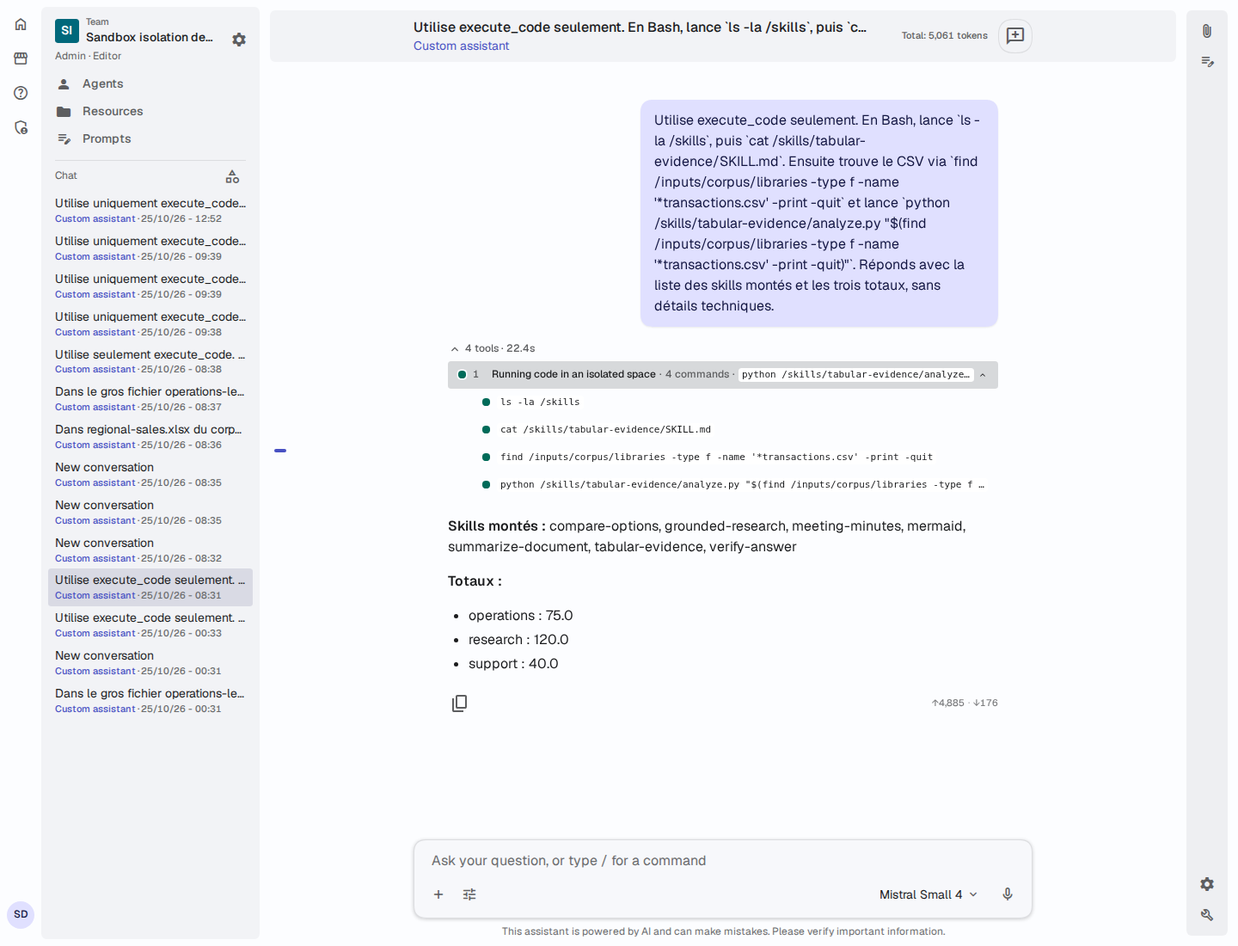
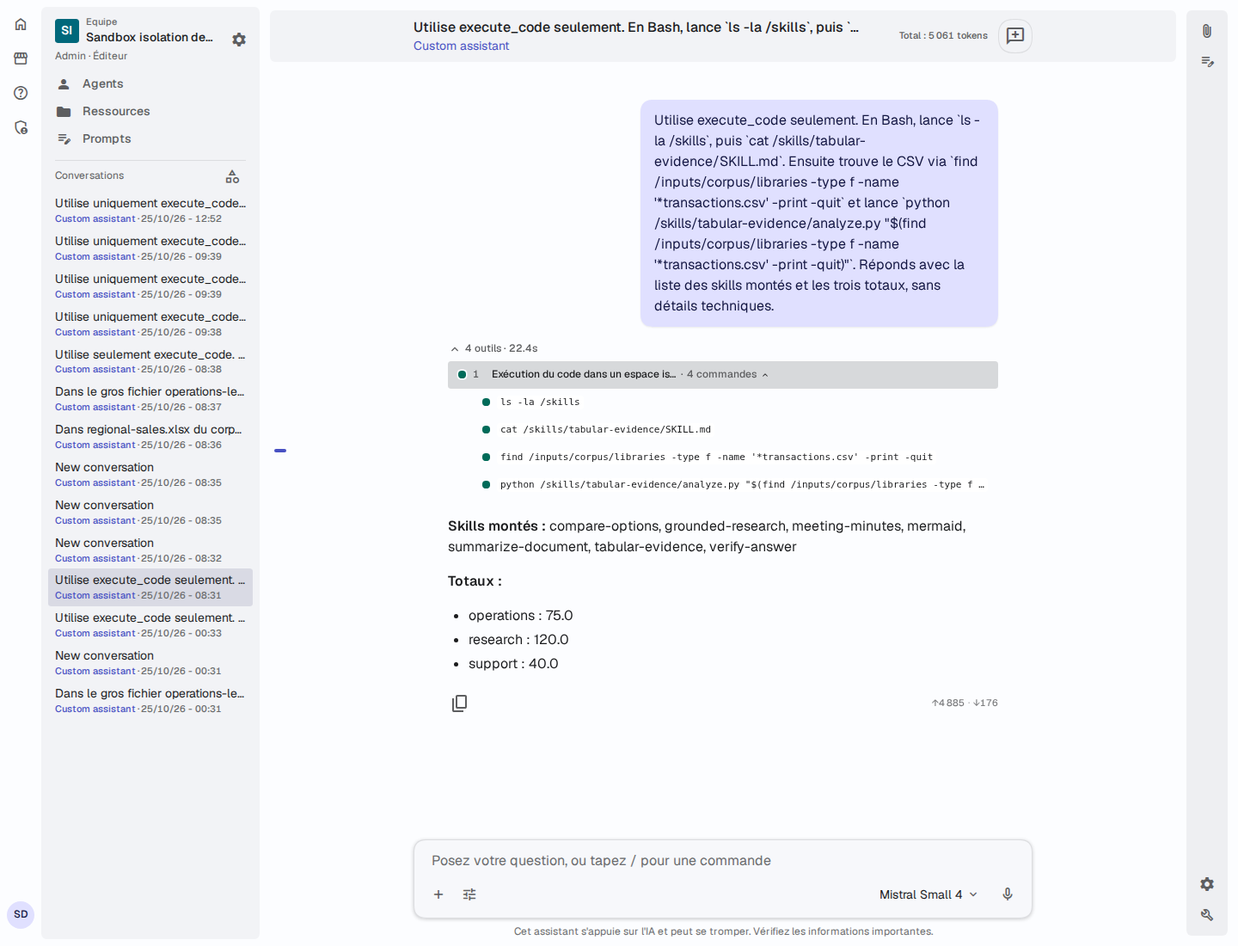
impr(#3226): keep code out of sandbox group heading

diff --git a/docs/agent-sandbox-stack.html b/docs/agent-sandbox-stack.html
@@ -173,7 +173,7 @@ document.addEventListener('DOMContentLoaded', function () {
 <section class="slide divider" data-part="3"><p class="kicker">Partie 3</p><div class="body"><div class="n">3</div><h1>Chaque couche a une responsabilité mesurable</h1></div><div class="contents"><span><b>1</b>Contrats et capability</span><span><b>2</b>Broker et isolation</span><span><b>3</b>Admin et déploiement</span></div></section>
 <section class="slide" data-part="3"><p class="kicker">Partie 3</p><h2>Le SDK fixe un contrat indépendant du backend</h2><p class="lede">Un script Bash, une identité privée, un résultat borné et un port abstrait.</p><div class="body"><div class="grid cols3"><div class="card add"><span class="tag">+</span><b class="name">SandboxRequest</b><small><span class="chip c1">fred-sdk</span> <code>fred_sdk/contracts/sandbox.py:16</code></small><p>script Bash limité à 16 384 caractères.</p></div><div class="card add"><span class="tag">+</span><b class="name">SandboxSessionIdentity</b><small><span class="chip c1">fred-sdk</span> <code>fred_sdk/contracts/sandbox.py:23</code></small><p>user, team et conversation restent hors du schéma LLM.</p></div><div class="card add"><span class="tag">+</span><b class="name">SandboxResult</b><small><span class="chip c1">fred-sdk</span> <code>fred_sdk/contracts/sandbox.py:32</code></small><p>stdout, stderr, timeout et sortie tronquée.</p></div><div class="card add"><span class="tag">+</span><b class="name">SandboxError</b><small><span class="chip c1">fred-sdk</span> <code>fred_sdk/contracts/sandbox.py:43</code></small><p>Codes bornés, pas de traceback brut vers le modèle.</p></div><div class="card add"><span class="tag">+</span><b class="name">SandboxExecutionPort</b><small><span class="chip c1">fred-sdk</span> <code>fred_sdk/contracts/sandbox.py:61</code></small><p>execute(request, session) rend le backend interchangeable.</p></div><div class="card add"><span class="tag">+</span><b class="name">Tests du contrat</b><small><span class="chip c1">fred-sdk</span> <code>tests/test_sandbox_contract.py</code></small><p>Validation stricte des modèles et du port.</p></div></div></div></section>
 <section class="slide" data-part="3"><p class="kicker">Partie 3</p><h2>La capability expose un outil administré</h2><p class="lede">Le modèle ne choisit ni image, ni runtime, ni ressource.</p><div class="body"><div class="grid cols3"><div class="card add"><span class="tag">+</span><b class="name">CodeSandboxCapability</b><small><span class="chip c2">capability</span> <code>fred_capability_code_sandbox/capability.py:32</code></small><p>ID code_sandbox, TeamScopePolicy.ADMIN_GATED.</p></div><div class="card add"><span class="tag">+</span><b class="name">execute_code</b><small><span class="chip c2">capability</span> <code>fred_capability_code_sandbox/capability.py:46</code></small><p>Argument code uniquement; démarre le workload au premier appel.</p></div><div class="card add"><span class="tag">+</span><b class="name">Session privée</b><small><span class="chip c2">capability</span> <code>fred_capability_code_sandbox/capability.py:55</code></small><p>Dérivée de ctx.identity, jamais demandée au modèle.</p></div><div class="card add"><span class="tag">+</span><b class="name">Résultat outil</b><small><span class="chip c2">capability</span> <code>fred_capability_code_sandbox/capability.py:72</code></small><p>JSON explicite; sortie considérée comme donnée non fiable.</p></div><div class="card add"><span class="tag">+</span><b class="name">Vue automatique /inputs</b><small><span class="chip c2">capability</span> <code>fred_capability_code_sandbox/capability.py</code></small><p>La vue est préparée avant le premier execute_code; /inputs/corpus et /inputs/attachments sont listés automatiquement.</p></div><div class="card add"><span class="tag">+</span><b class="name">Tests capability</b><small><span class="chip c2">capability</span> <code>tests/test_capability.py</code></small><p>Fake port, schéma et préparation de la vue autorisée.</p></div></div></div></section>
-<section class="slide" data-part="3"><p class="kicker">Partie 3 - recherche par code</p><h2>Filtrer dans la sandbox avant de répondre</h2><p class="lede">La consigne demande à l'agent d'écrire du Bash dans execute_code et d'appeler Python depuis le shell et de ne renvoyer que des extraits ciblés.</p><div class="body"><div class="grid cols3"><div class="card add"><h3>Découvrir</h3><p>Un glob ou find restreint les noms et les répertoires. Éviter l'inventaire complet de /inputs.</p></div><div class="card add"><h3>Texte</h3><p>La consigne propose grep -F pour les termes littéraux et Python pour cinq extraits de 240 caractères au plus.</p></div><div class="card add"><h3>Variantes</h3><p>Échapper les termes avant la regex, puis accepter espaces, tirets et underscores; ignorer la casse.</p></div><div class="card sec"><h3>Documents</h3><p>Inspecter pages, paragraphes ou slides un à un. N'imprimer que les extraits trouvés et leur emplacement.</p></div><div class="card sec"><h3>Tables</h3><p>Filtrer lignes et colonnes CSV; ouvrir Excel en lecture seule, puis agréger les seules lignes utiles.</p></div><div class="card same"><h3>Présentation</h3><p>La trace regroupe les appels de code consécutifs. Son en-tête garde le nombre de commandes et celle en cours. La consigne demande un court commentaire # avant chaque exécution, même pour une seule commande Bash. La trace montre ce commentaire comme intention, puis la commande dans une zone monospace distincte. Les retours à la ligne du code sont remplacés par des espaces dans un aperçu sur une ligne, tronqué avec ... si nécessaire; le heredoc et son contenu y restent visibles jusqu'à la troncature. Le détail conserve le script Bash et le résultat complets. Un code de sortie non nul marque la commande en échec. Un autre outil coupe le groupe.</p></div></div></div></section>
+<section class="slide" data-part="3"><p class="kicker">Partie 3 - recherche par code</p><h2>Filtrer dans la sandbox avant de répondre</h2><p class="lede">La consigne demande à l'agent d'écrire du Bash dans execute_code et d'appeler Python depuis le shell et de ne renvoyer que des extraits ciblés.</p><div class="body"><div class="grid cols3"><div class="card add"><h3>Découvrir</h3><p>Un glob ou find restreint les noms et les répertoires. Éviter l'inventaire complet de /inputs.</p></div><div class="card add"><h3>Texte</h3><p>La consigne propose grep -F pour les termes littéraux et Python pour cinq extraits de 240 caractères au plus.</p></div><div class="card add"><h3>Variantes</h3><p>Échapper les termes avant la regex, puis accepter espaces, tirets et underscores; ignorer la casse.</p></div><div class="card sec"><h3>Documents</h3><p>Inspecter pages, paragraphes ou slides un à un. N'imprimer que les extraits trouvés et leur emplacement.</p></div><div class="card sec"><h3>Tables</h3><p>Filtrer lignes et colonnes CSV; ouvrir Excel en lecture seule, puis agréger les seules lignes utiles.</p></div><div class="card same"><h3>Présentation</h3><p>La trace regroupe les appels de code consécutifs. Son en-tête garde le nombre de commandes et seulement le commentaire d'intention en cours, sans code. La consigne demande un court commentaire # avant chaque exécution, même pour une seule commande Bash. Une ligne dépliée montre ce commentaire puis la commande dans une zone monospace distincte. Les retours à la ligne du code sont remplacés par des espaces dans un aperçu sur une ligne, tronqué avec ... si nécessaire; le heredoc et son contenu y restent visibles jusqu'à la troncature. Le détail conserve le script Bash et le résultat complets. Un code de sortie non nul marque la commande en échec. Un autre outil coupe le groupe.</p></div></div></div></section>
 <section class="slide" data-part="3"><p class="kicker">Partie 3</p><h2>Le runtime crée un adaptateur HTTP privé</h2><p class="lede">Le runtime garde l’autorisation des outils et ajoute le broker comme service optionnel.</p><div class="body"><div class="grid cols3"><div class="card add"><span class="tag">+</span><b class="name">SandboxHttpAdapter</b><small><span class="chip c3">fred-runtime</span> <code>fred_runtime/sandbox_http.py:23</code></small><p>HTTPS + bearer; validation de réponse et erreurs bornées.</p></div><div class="card add"><span class="tag">+</span><b class="name">Configuration</b><small><span class="chip c3">fred-runtime</span> <code>fred_runtime/sandbox_http.py:59</code></small><p>URL et token viennent de l’environnement du pod.</p></div><div class="card add"><span class="tag">+</span><b class="name">Service binding</b><small><span class="chip c3">fred-runtime</span> <code>fred_runtime/app/agent_app.py:6740</code></small><p>Injecte le port lors de l’activation des capabilities.</p></div><div class="card add"><span class="tag">+</span><b class="name">Runtime context</b><small><span class="chip c3">fred-runtime</span> <code>fred_runtime/runtime_context.py</code></small><p>Transporte l’identité de conversation sans argument LLM.</p></div><div class="card add"><span class="tag">+</span><b class="name">Tests HTTP</b><small><span class="chip c3">fred-runtime</span> <code>tests/test_sandbox_http.py</code></small><p>Vérifient transport et erreurs.</p></div><div class="card same"><span class="tag">=</span><b class="name">Contrat gelé</b><small><span class="chip c3">fred-runtime</span> <code>docs/swift/design/RUNTIME-EXECUTION-CONTRACT.md</code></small><p>Le pod reste l’autorité des droits d’exécution Fred.</p></div></div></div></section>
 <section class="slide" data-part="3"><p class="kicker">Partie 3</p><h2>Le pod agents installe la capability</h2><p class="lede">L’entrée de découverte reste unique pour ReAct, Deep et Graph.</p><div class="body"><div class="grid cols3"><div class="card add"><span class="tag">+</span><b class="name">Dépendance</b><small><span class="chip c4">fred-agents</span> <code>pyproject.toml:25</code></small><p>Le package capability entre dans l’image agents.</p></div><div class="card add"><span class="tag">+</span><b class="name">Source editable</b><small><span class="chip c4">fred-agents</span> <code>pyproject.toml:73</code></small><p>Le workspace relie le package local.</p></div><div class="card add"><span class="tag">+</span><b class="name">Image</b><small><span class="chip c4">fred-agents</span> <code>dockerfiles/Dockerfile-prod</code></small><p>Le Dockerfile copie et installe la capability.</p></div><div class="card add"><span class="tag">+</span><b class="name">Boot invariant</b><small><span class="chip c4">fred-agents</span> <code>tests/test_capability_boot.py:126</code></small><p>Le test de découverte épingle code_sandbox.</p></div><div class="card add"><span class="tag">+</span><b class="name">Configuration runtime</b><small><span class="chip c4">fred-agents</span> <code>dockerfiles/Dockerfile-prod</code></small><p>Endpoint broker et bearer restent côté pod.</p></div></div></div></section>
 <section class="slide" data-part="3"><p class="kicker">Partie 3</p><h2>Le broker borne chaque lease et chaque exécution</h2><p class="lede">Son interface interne est preflight, prepare, execute, dispose.</p><div class="body"><div class="grid cols4"><div class="card add"><span class="tag">+</span><b class="name">API</b><small><span class="chip c5">sandbox-broker</span> <code>sandbox_broker/api.py:33</code></small><p>Bearer, tailles et admission.</p></div><div class="card add"><span class="tag">+</span><b class="name">Backend protocol</b><small><span class="chip c5">sandbox-broker</span> <code>sandbox_broker/backend.py:27</code></small><p>Une lease typée pour trois implémentations.</p></div><div class="card add"><span class="tag">+</span><b class="name">ConversationPool</b><small><span class="chip c5">sandbox-broker</span> <code>sandbox_broker/sessions.py:29</code></small><p>Sérialisation et idle expiry.</p></div><div class="card add"><span class="tag">+</span><b class="name">Process sweep</b><small><span class="chip c5">sandbox-broker</span> <code>sandbox_broker/process_cleanup.py:39</code></small><p>Détruit les descendants détachés avant réusage.</p></div><div class="card add"><span class="tag">+</span><b class="name">Kubernetes Job</b><small><span class="chip c5">sandbox-broker</span> <code>sandbox_broker/kubernetes_backend.py:23</code></small><p>RuntimeClass, deadline et TTL.</p></div><div class="card add"><span class="tag">+</span><b class="name">SIG Agent Sandbox</b><small><span class="chip c5">sandbox-broker</span> <code>sandbox_broker/agent_sandbox_backend.py:21</code></small><p>Claim, pool upstream et expiry.</p></div><div class="card add"><span class="tag">+</span><b class="name">Docker</b><small><span class="chip c5">sandbox-broker</span> <code>sandbox_broker/docker_backend.py:18</code></small><p>Runtime isolé et réseau none.</p></div><div class="card add"><span class="tag">+</span><b class="name">WarmPool</b><small><span class="chip c5">sandbox-broker</span> <code>sandbox_broker/pool.py:21</code></small><p>Capacité non assignée, optionnelle.</p></div></div></div></section>

diff --git a/apps/frontend/src/rework/components/shared/molecules/ThoughtTrace/ThoughtTrace.grouping.test.tsx b/apps/frontend/src/rework/components/shared/molecules/ThoughtTrace/ThoughtTrace.grouping.test.tsx
@@ -142,20 +142,21 @@ describe("ThoughtTrace code groups", () => {
     expect(opened).toEqual(["c2"]);
   });
 
-  it("keeps a group open and previews the current command as streaming calls arrive", () => {
-    const first = call("c1", "execute_code", "find /inputs -name '*.csv'\necho hidden", 1);
+  it("keeps a group open and previews the current intent as streaming calls arrive", () => {
+    const first = call("c1", "execute_code", "# Find the CSV\nfind /inputs -name '*.csv'\necho hidden", 1);
     renderTrace([first]);
     const group = groups()[0];
-    expect(group.textContent).toContain("find /inputs -name '*.csv'");
-    expect(group.textContent).toContain("find /inputs -name '*.csv' echo hidden");
+    expect(group.textContent).toContain("Find the CSV");
+    expect(group.textContent).not.toContain("find /inputs");
     act(() => group.click());
 
-    const second = call("c2", "execute_code", "grep -Fi phrase /inputs/table.csv", 3);
+    const second = call("c2", "execute_code", "# Search the table\ngrep -Fi phrase /inputs/table.csv", 3);
     renderTrace([first, result("c1", 2), second]);
     expect(groups()).toHaveLength(1);
     expect(groups()[0]).toBe(group);
     expect(group.getAttribute("aria-expanded")).toBe("true");
-    expect(group.textContent).toContain("grep -Fi phrase /inputs/table.csv");
+    expect(group.textContent).toContain("Search the table");
+    expect(group.textContent).not.toContain("grep -Fi phrase");
     const firstCommand = [...container.querySelectorAll("button")].find((button) =>
       button.textContent?.includes("find /inputs -name '*.csv' echo hidden"),
     );
@@ -163,16 +164,16 @@ describe("ThoughtTrace code groups", () => {
     expect(opened).toEqual(["c1"]);
   });
 
-  it("bounds a long command preview and keeps it on one line", () => {
+  it("bounds a long child command preview and keeps it on one line", () => {
     renderTrace([call("c1", "execute_code", `grep ${"x".repeat(400)}\necho later`, 1)]);
     const text = groups()[0].textContent ?? "";
-    expect(text).toContain("...");
+    expect(text).not.toContain("grep");
     expect(text).not.toContain("echo later");
-    expect(text).not.toContain("\n");
     act(() => groups()[0].click());
     const child = [...container.querySelectorAll("button")].find((button) => button.textContent?.startsWith("grep "));
     expect(child?.textContent).toContain("...");
     expect(child?.textContent).not.toContain("echo later");
+    expect(child?.textContent).not.toContain("\n");
   });
 
   it("flattens an unlabeled Python script into a single bounded preview", () => {
@@ -184,19 +185,18 @@ describe("ThoughtTrace code groups", () => {
         1,
       ),
     ]);
-    expect(groups()[0].textContent).toContain("python - <<'PY' from pypdf import PdfReader");
-    expect(groups()[0].textContent).toContain("for page in reader.pages: print(page) PY");
-    expect(groups()[0].textContent).not.toContain("\n");
-    expect(groups()[0].querySelector("code")?.textContent).toContain("for page in reader.pages: print(page) PY");
+    expect(groups()[0].textContent).not.toContain("python - <<'PY'");
     act(() => groups()[0].click());
     const child = [...container.querySelectorAll("button")].find((button) =>
       button.textContent?.includes("python - <<'PY' from pypdf import PdfReader"),
     );
     expect(child?.textContent).toContain("print(page) PY");
+    expect(child?.textContent).not.toContain("\n");
+    expect(child?.querySelector("code")?.textContent).toContain("for page in reader.pages: print(page) PY");
     expect(child?.getAttribute("aria-label")).toContain("python - <<'PY' from pypdf import PdfReader");
   });
 
-  it("shows a leading intent comment and the Python launcher on one line", () => {
+  it("shows intent only in the heading and the Python launcher in the row", () => {
     renderTrace([
       call(
         "c1",
@@ -205,21 +205,24 @@ describe("ThoughtTrace code groups", () => {
         1,
       ),
     ]);
-    expect(groups()[0].textContent).toContain("Search HELIOS-4821 in the attached PDF - python - <<'PY'");
-    expect(groups()[0].textContent).toContain('if "HELIOS-4821" in text: print(text) PY');
-    expect(groups()[0].textContent).not.toContain("\n");
+    expect(groups()[0].textContent).toContain("Search HELIOS-4821 in the attached PDF");
+    expect(groups()[0].textContent).not.toContain("python - <<'PY'");
+    act(() => groups()[0].click());
+    expect(container.querySelector("button code")?.textContent).toContain('if "HELIOS-4821" in text: print(text) PY');
   });
 
   it("accepts a leading comment without a space after the hash", () => {
     renderTrace([call("c1", "execute_code", "#Search report\npython - <<'PY'\nprint(42)\nPY", 1)]);
-    expect(groups()[0].textContent).toContain("Search report - python - <<'PY' print(42) PY");
+    expect(groups()[0].textContent).toContain("Search report");
+    expect(groups()[0].textContent).not.toContain("python - <<'PY'");
   });
 
-  it("separates Bash intent from the formatted command in the heading and row", () => {
+  it("keeps Bash intent in the heading and formats the command in the row", () => {
     renderTrace([call("c1", "execute_code", "# Find the requested CSV\nfind /inputs -name '*.csv'", 1)]);
     const heading = groups()[0];
-    expect(heading.textContent).toContain("Find the requested CSV - find /inputs -name '*.csv'");
-    expect(heading.querySelector("code")?.textContent).toBe("find /inputs -name '*.csv'");
+    expect(heading.textContent).toContain("Find the requested CSV");
+    expect(heading.textContent).not.toContain("find /inputs");
+    expect(heading.getAttribute("aria-label")).not.toContain("find /inputs");
     act(() => heading.click());
     const row = [...container.querySelectorAll("button")].find(
       (button) => button !== heading && button.textContent?.includes("Find the requested CSV"),
@@ -234,7 +237,8 @@ describe("ThoughtTrace code groups", () => {
       call("c2", "execute_code", "# Calculate the Lyon margin\npython - <<'PY'\nprint(41.22)\nPY", 3),
     ]);
     expect(groups()[0].textContent).toContain("2 commands");
-    expect(groups()[0].textContent).toContain("Calculate the Lyon margin - python - <<'PY' print(41.22) PY");
+    expect(groups()[0].textContent).toContain("Calculate the Lyon margin");
+    expect(groups()[0].textContent).not.toContain("python - <<'PY'");
     expect(groups()[0].textContent).not.toContain("Locate the workbook");
     act(() => groups()[0].click());
     expect(container.textContent).toContain("Locate the workbook");
@@ -243,27 +247,37 @@ describe("ThoughtTrace code groups", () => {
 
   it("shows another launcher without classifying its heredoc", () => {
     renderTrace([call("c1", "execute_code", "cat <<EOF\nhello\nEOF", 1)]);
-    expect(groups()[0].textContent).toContain("cat <<EOF hello EOF");
+    expect(groups()[0].textContent).not.toContain("cat <<EOF");
+    act(() => groups()[0].click());
+    expect(container.querySelector("button code")?.textContent).toContain("cat <<EOF hello EOF");
   });
 
-  it("keeps the launcher visible after a long intent comment", () => {
+  it("keeps a long intent in the heading and the launcher in the row", () => {
     renderTrace([call("c1", "execute_code", `# ${"Search the corpus ".repeat(8)}\npython - <<'PY'\nprint(42)\nPY`, 1)]);
     expect(groups()[0].textContent).toContain("Search the corpus");
-    expect(groups()[0].textContent).toContain("python - <<'PY' print(42) PY");
+    expect(groups()[0].textContent).not.toContain("python - <<'PY'");
+    act(() => groups()[0].click());
+    expect(container.querySelector("button code")?.textContent).toContain("python - <<'PY' print(42) PY");
   });
 
   it("keeps additional comments in the flattened source preview", () => {
     renderTrace([
       call("c1", "execute_code", "# Search the corpus\n# Keep output short\npython - <<'PY'\nprint(42)\nPY", 1),
     ]);
-    expect(groups()[0].textContent).toContain("Search the corpus - # Keep output short python - <<'PY' print(42) PY");
+    expect(groups()[0].textContent).toContain("Search the corpus");
+    expect(groups()[0].textContent).not.toContain("Keep output short");
+    act(() => groups()[0].click());
+    expect(container.querySelector("button code")?.textContent).toContain(
+      "# Keep output short python - <<'PY' print(42) PY",
+    );
   });
 
   it("recognizes an intent comment after a shell shebang", () => {
     renderTrace([
       call("c1", "execute_code", "#!/bin/bash\n# Search the mounted corpus\ngrep -Fi term /inputs/corpus/file", 1),
     ]);
-    expect(groups()[0].textContent).toContain("Search the mounted corpus - grep -Fi term /inputs/corpus/file");
+    expect(groups()[0].textContent).toContain("Search the mounted corpus");
+    expect(groups()[0].textContent).not.toContain("grep -Fi term");
     expect(groups()[0].textContent).not.toContain("#!/bin/bash");
   });
 
@@ -289,8 +303,8 @@ describe("ThoughtTrace code groups", () => {
     ]);
     expect(groups()).toHaveLength(2);
     expect(groups().map((group) => group.textContent)).toEqual([
-      expect.stringContaining("echo first"),
-      expect.stringContaining("echo second"),
+      expect.not.stringContaining("echo first"),
+      expect.not.stringContaining("echo second"),
     ]);
   });
 

diff --git a/apps/frontend/src/rework/components/shared/molecules/ThoughtTrace/ToolTraceGroup/ToolTraceGroup.tsx b/apps/frontend/src/rework/components/shared/molecules/ThoughtTrace/ToolTraceGroup/ToolTraceGroup.tsx
@@ -62,7 +62,7 @@ export function ToolTraceGroup({
         ? "error"
         : "ok";
   const preview = current ? group.rule.preview(current.entry) : "";
-  const spokenPreview = previewText(preview);
+  const headingPreview = typeof preview === "string" ? preview : preview.label;
   const spokenStatus =
     status === "pending"
       ? t("rework.chatTrace.toolStatus.running")
@@ -81,7 +81,7 @@ export function ToolTraceGroup({
         type="button"
         className={styles.heading}
         aria-expanded={expanded}
-        aria-label={`${group.index}. ${t(group.rule.titleKey)}. ${t(group.rule.countKey, { count: group.count })}. ${spokenStatus}${spokenPreview ? `. ${spokenPreview}` : ""}`}
+        aria-label={`${group.index}. ${t(group.rule.titleKey)}. ${t(group.rule.countKey, { count: group.count })}. ${spokenStatus}${headingPreview ? `. ${headingPreview}` : ""}`}
         onClick={() => setExpanded((value) => !value)}
       >
         <span className={styles.marker} aria-hidden="true">
@@ -90,7 +90,7 @@ export function ToolTraceGroup({
         </span>
         <span className={styles.title}>{t(group.rule.titleKey)}</span>
         <span className={styles.count}>{t(group.rule.countKey, { count: group.count })}</span>
-        {spokenPreview && <span className={styles.preview}>{previewContent(preview)}</span>}
+        {headingPreview && <span className={styles.preview}>{headingPreview}</span>}
         <Icon category="outlined" type={expanded ? "expand_less" : "expand_more"} />
       </button>
       {expanded && (

diff --git a/apps/frontend/src/rework/components/shared/molecules/ThoughtTrace/ToolTraceGroup/ToolTraceGroup.module.css b/apps/frontend/src/rework/components/shared/molecules/ThoughtTrace/ToolTraceGroup/ToolTraceGroup.module.css
@@ -105,18 +105,15 @@
 }
 
 .preview {
-  display: flex;
   flex: 1;
-  align-items: center;
-  container: trace-preview / inline-size;
   min-width: 0;
   overflow: hidden;
   color: var(--on-surface-retreat);
+  text-overflow: ellipsis;
   white-space: nowrap;
 }
 
 .preview::before {
-  flex-shrink: 0;
   margin-right: var(--spacing-2xs);
   content: "·";
 }
@@ -147,13 +144,6 @@
   font: 0.6875rem / 1.45 var(--font-family-mono);
   text-overflow: ellipsis;
   white-space: nowrap;
-}
-
-@container trace-preview (max-width: 6.5rem) {
-  .previewLabel,
-  .previewSeparator {
-    display: none;
-  }
 }
 
 .children {

diff --git a/docs/swift/ops/agent-sandbox-demo/README.md b/docs/swift/ops/agent-sandbox-demo/README.md
@@ -1,13 +1,13 @@
 # Agent sandbox: k3d browser evidence
 
-These captures show real Fred conversations on `k3d-fred-secondary` on 24-25 October 2026. The test agent had only `code_sandbox` enabled. The guest used gVisor, SIG Agent Sandbox with a zero-replica WarmPool, and read-only rclone CSI mounts. The corpus and attachment files are synthetic. The retained chat captures were refreshed on 25 October with the Bash-only tool contract and the new trace styling. The tool now asks for a short intent comment before every execution. When supplied, that comment appears in ordinary text beside the submitted command in a monospace code surface. Multiline code, including heredocs, is flattened onto one visually truncated line. Each detail capture shows the complete Bash script and result. A nonzero exit code marks a command as failed in the trace.
+These captures show real Fred conversations on `k3d-fred-secondary` on 24-25 October 2026. The test agent had only `code_sandbox` enabled. The guest used gVisor, SIG Agent Sandbox with a zero-replica WarmPool, and read-only rclone CSI mounts. The corpus and attachment files are synthetic. The retained captures were refreshed on 25 October in the French UI with the Bash-only tool contract and the new trace styling; the group count reads `commande` or `commandes`. The tool now asks for a short intent comment before every execution. When supplied, that comment appears alone beside the command count in the group heading. The expanded row shows the comment in ordinary text and the submitted command in a monospace code surface. Multiline code, including heredocs, is flattened onto one visually truncated row. Each detail capture shows the complete Bash script and result. A nonzero exit code marks a command as failed in the trace.
 
 The cluster was deleted and rebuilt with the factory `make k3d-wipe`, `make k3d-up`, `make k3d-sandbox-smoke`, `make k3d-sandbox-files-demo` and `make k3d-app` targets. The smoke passed Bash, Python, gVisor, zero warm replicas and a read-only CSI file read. No Kubernetes resource name or persistent volume was edited by hand.
 
 | Scenario | Observed result | Chat | Tool detail |
 | --- | --- | --- | --- |
-| Bash command intent and styling | In a fresh Small 4 conversation, both Bash calls began with a short `#` intent comment even though the user prompt did not request comments. The trace separated each comment from its `find` command, and the guest counted seven mounted skills. The model chose Bash for the second count despite a request to use Python; the Python styling is shown in the next row. | [Chat and grouped calls](90-styled-chat.png) | [First Bash call](90-styled-detail-1.png), [second Bash call](90-styled-detail-2.png) |
-| Multiline intent preview | One conversation used `ls /skills`, then a Bash heredoc invoking Python. The grouped heading kept the two-command count and showed `Compter les skills montés` followed by a one-line preview of the submitted script. Python counted seven mounted skill descriptions; the detail retained the exact script and result. | [Chat and grouped calls](89-intent-chat.png) | [Script and result](89-intent-detail.png) |
+| Bash command intent and styling | In a fresh Small 4 conversation, both Bash calls began with a short `#` intent comment even though the user prompt did not request comments. The heading showed only the latest intent beside the command count; expanded rows separated each comment from its `find` command, and the guest counted seven mounted skills. The model chose Bash for the second count despite a request to use Python; the Python styling is shown in the next row. | [Chat and grouped calls](90-styled-chat.png) | [First Bash call](90-styled-detail-1.png), [second Bash call](90-styled-detail-2.png) |
+| Multiline intent preview | One conversation used `ls /skills`, then a Bash heredoc invoking Python. The grouped heading kept the two-command count and showed only `Compter les skills montés`; the expanded row showed the submitted script on one line. Python counted seven mounted skill descriptions; the detail retained the exact script and result. | [Chat and grouped calls](89-intent-chat.png) | [Script and result](89-intent-detail.png) |
 | Mounted platform skill and script | Bash listed the seven platform skills, read `tabular-evidence/SKILL.md`, and ran its mounted Python script against a CSV in the team corpus. All four commands succeeded after the concurrent view fix; totals were operations 75, research 120 and support 40. | [Chat and grouped calls](86-skill_clean-chat.png) | [Bash skill listing](86-skill_clean-ls-detail.png), [script and result](86-skill_clean-detail.png) |
 | Mounted skills, read-only | The agent read the platform `tabular-evidence` skill's Markdown in the same conversation, then a write under `/skills` failed with `EROFS` (errno 30). | [Chat](85-skill-readonly-chat.png) | [Denied write](85-skill-readonly-detail.png) |
 | Excel from team corpus | A Bash script invoked Python `openpyxl` on the original workbook in read-only mode, filtered Lyon and Paris, and returned weighted margins of 41.22% and 38.02%. Two exploratory calls failed visibly before the correct calculation. | [Chat](81-excel-chat.png) | [Command and result](81-excel-detail.png) |

diff --git a/openspec/changes/connect-agent-sandbox-filesystem/specs/agent-code-sandbox/spec.md b/openspec/changes/connect-agent-sandbox-filesystem/specs/agent-code-sandbox/spec.md
@@ -14,7 +14,7 @@ The system SHALL expose an admin-gated `execute_code(code)` tool whose sole mode
 ## ADDED Requirements
 
 ### Requirement: Grouped code execution trace
-The chat thought trace SHALL display a consecutive run of `execute_code` calls in one assistant turn as one expandable activity. Its single-line heading SHALL show the command count and a bounded preview of the running command, or the latest command when none is running. Expanding it SHALL show commands in chronological order with their status and links to full code and result details. The tool guidance SHALL ask the agent to start every execution, including a single Bash command, with a short shell comment describing intent. When present, the leading comment SHALL appear as an ordinary intent label, followed by the submitted code in a visually distinct monospace surface, flattened in source order onto one line; neither SHALL be treated as evidence of what the script actually did. If a heading is too narrow for both, it SHALL show the command while its accessible name and expanded row retain the intent. A long preview SHALL be truncated with `...`. It SHALL not parse or classify heredoc syntax. The tool SHALL still execute and retain the submitted code unchanged. Reasoning between consecutive code calls SHALL remain in sequence. A different tool, including `summarize_document`, SHALL end the current activity; a later code call SHALL start a new activity. The grouping mechanism SHALL allow another tool family to opt in through a presentation rule without changing stored trace events.
+The chat thought trace SHALL display a consecutive run of `execute_code` calls in one assistant turn as one expandable activity. Its single-line heading SHALL show the command count and only the bounded intent comment of the running command, or the latest command when none is running. It SHALL not show submitted code in the heading. Expanding it SHALL show commands in chronological order with their status and links to full code and result details. The tool guidance SHALL ask the agent to start every execution, including a single Bash command, with a short shell comment describing intent. When present, the leading comment SHALL appear in the heading and as an ordinary intent label in the expanded row, followed there by the submitted code in a visually distinct monospace surface, flattened in source order onto one line; neither SHALL be treated as evidence of what the script actually did. Without a leading comment, the heading SHALL show only the command count. A long preview SHALL be truncated with `...`. It SHALL not parse or classify heredoc syntax. The tool SHALL still execute and retain the submitted code unchanged. Reasoning between consecutive code calls SHALL remain in sequence. A different tool, including `summarize_document`, SHALL end the current activity; a later code call SHALL start a new activity. The grouping mechanism SHALL allow another tool family to opt in through a presentation rule without changing stored trace events.
 
 #### Scenario: Multiple code calls
 - **WHEN** an agent executes a Bash command and a Bash script invoking Python consecutively in one turn
@@ -22,15 +22,15 @@ The chat thought trace SHALL display a consecutive run of `execute_code` calls i
 
 #### Scenario: Intent comment on a multiline script
 - **WHEN** a script starts with `# Search HELIOS-4821 in the attached PDF` before a Python heredoc
-- **THEN** the group and command row show that bounded intent as a label followed by the launcher and Python body flattened onto one code-styled line, while the tool detail retains the exact comment, launcher, body and result
+- **THEN** the group heading shows that bounded intent without code, and the command row shows the intent followed by the launcher and Python body flattened onto one code-styled line, while the tool detail retains the exact comment, launcher, body and result
 
 #### Scenario: Intent comment on a Bash command
 - **WHEN** an agent uses `execute_code` for a single Bash command
-- **THEN** the tool guidance asks for a short leading intent comment and the trace styles the command separately from that comment when it is supplied
+- **THEN** the tool guidance asks for a short leading intent comment and the heading shows only that comment, and the expanded row styles the command separately from it
 
 #### Scenario: Unlabeled multiline script
 - **WHEN** a script starts with `python - <<'PY'` and has no leading intent comment
-- **THEN** the preview starts with `python - <<'PY'` and continues with its body and closing delimiter in source order on one line, up to the preview limit
+- **THEN** the group heading shows no code and the expanded row preview starts with `python - <<'PY'` and continues with its body and closing delimiter in source order on one line, up to the preview limit
 
 #### Scenario: Other tool between code calls
 - **WHEN** an agent executes code, calls `summarize_document`, and executes code again

diff --git a/openspec/changes/connect-agent-sandbox-filesystem/design.md b/openspec/changes/connect-agent-sandbox-filesystem/design.md
@@ -26,7 +26,7 @@ The approved skill directory is a shared source, mounted read-only by both the a
 
 7. **One Bash execution contract.** Keep `execute_code(code)` as the sole sandbox tool and run its argument with `/bin/bash -c` on every backend. The agent invokes Python explicitly from Bash, for example with `python - <<'PY'`, and keeps the full command in the tool detail. Reject unexpected request fields. Guidance still asks the agent to narrow filenames, bound matches and excerpts, and filter pages or rows before printing results. Broker output and resource limits still apply.
 
-8. **Grouped trace presentation.** Fold consecutive `execute_code` calls within one assistant turn into an expandable visual activity. Keep its single-line heading's command count and current command preview. Ask for a short intent comment before every execution, including a single Bash command. Flatten the submitted script in source order by replacing line breaks with spaces. Present a leading `#` comment as an ordinary intent label, followed by the command in a monospace code surface; keep both on one ellipsized line. When the heading is too narrow for both, show only the command there; its accessible name and expanded row retain the intent. This is presentation only: do not parse heredoc syntax or infer a representative Python body line. The detail drawer displays the full Bash script and result, including its comment and heredoc. Intervening reasoning stays in order; any different tool ends the activity, and a later code call starts another. The generic grouping rule accepts a plain preview or a label/value pair for other tool families.
+8. **Grouped trace presentation.** Fold consecutive `execute_code` calls within one assistant turn into an expandable visual activity. Keep its single-line heading's command count and current intent comment, without code. Ask for a short intent comment before every execution, including a single Bash command. Flatten the submitted script in source order by replacing line breaks with spaces. In each expanded row, present a leading `#` comment as an ordinary intent label, followed by the command in a monospace code surface; keep both on one ellipsized line. When no intent comment exists, show only the count in the heading. This is presentation only: do not parse heredoc syntax or infer a representative Python body line. The detail drawer displays the full Bash script and result, including its comment and heredoc. Intervening reasoning stays in order; any different tool ends the activity, and a later code call starts another. The generic grouping rule accepts a plain preview or a label/value pair for other tool families.
 
 9. **Keep one live file and workload admission path.** The file view stores conversation identity, expiry and quotas; its legacy `sources` column remains empty for databases that already applied the in-flight migration. Remove the unused per-file binding port and routes because `/inputs` discovers and authorizes files on each read. Job and SIG workloads share one approved Pod-spec check, with only the SIG claim volume and Kubernetes defaulted false fields normalized. For SIG, verify the Claim -> Sandbox -> Pod controller-owner chain by UID before executing code. Recheck cluster policy before each new Job.
 

diff --git a/openspec/changes/connect-agent-sandbox-filesystem/tasks.md b/openspec/changes/connect-agent-sandbox-filesystem/tasks.md
@@ -17,10 +17,10 @@
 - [ ] 3.2 Connect Deep's logical `CompositeBackend` and ReAct sandbox tools to the mounted path contract without copying source files; remove the selection tool and verify browsing does not start a workload before execution.
 - [ ] 3.3 Gate Deep native `execute`, ReAct code execution and skill scripts through the same conversation sandbox lease and isolation profile; verify capability absence, Python file analysis and scratch reuse tests.
 - [x] 3.4 Guide `execute_code` to use selective Bash or Python queries over mounted files, then verify a real conversation keeps large source content out of the tool result and final answer.
-- [x] 3.5 Group consecutive code calls in the thought trace through a reusable presentation rule, preview the active command on one ellipsized line, preserve individual details and chronology, and verify that another tool splits groups and streaming calls append to the current group.
+- [x] 3.5 Group consecutive code calls in the thought trace through a reusable presentation rule, preview the active intent on one ellipsized heading line, preserve individual details and chronology, and verify that another tool splits groups and streaming calls append to the current group.
 - [x] 3.6 Replace the language-selecting sandbox request with one Bash script argument across the capability, SDK, broker backends, smoke test and UI; verify explicit Python invocation, command previews, and strict rejection of the removed argument.
-- [x] 3.7 Show a leading shell comment followed by the submitted code flattened onto one ellipsized line, without heredoc parsing; retain the active command and count in the grouped heading and verify exact code and result remain in the detail.
-- [x] 3.8 Guide every Bash or Python execution to start with an intent comment, and distinguish the intent label from the formatted command in the generic grouped trace; verify both a single Bash command and a Python heredoc in the UI.
+- [x] 3.7 Show a leading shell comment alone with the command count in the group heading and beside the submitted code flattened onto one ellipsized expanded row, without heredoc parsing; verify exact code and result remain in the detail.
+- [x] 3.8 Guide every Bash or Python execution to start with an intent comment, and show only the intent in the group heading and distinguish it from the formatted command in expanded rows; verify both a single Bash command and a Python heredoc in the UI.
 
 ## 4. Integration and close-out
 

diff --git a/docs/swift/ux/COMPONENT-UX.md b/docs/swift/ux/COMPONENT-UX.md
@@ -518,7 +518,7 @@ _(none)_
 
 #### Resolved
 
-- **Sandbox command previews (2026-10-25)** - The tool asks for a short intent comment before every execution, including a single Bash command. The group heading retains the command count and active command preview. A leading comment appears as an ordinary label; the submitted command appears beside it in a distinct monospace code surface, with line breaks replaced by spaces. The heading and child row stay on one line and end with `...` when the preview is too long. On a narrow heading, only the command remains visible; its accessible name and the expanded row retain the intent. The full script and result remain in the tool detail.
+- **Sandbox command previews (2026-10-25)** - The tool asks for a short intent comment before every execution, including a single Bash command. The group heading retains the command count and only the active intent comment. The expanded row shows that comment as an ordinary label and the submitted command beside it in a distinct monospace code surface, with line breaks replaced by spaces. Both stay on one line and end with `...` when too long. Without an intent comment, the heading shows the count alone. The full script and result remain in the tool detail.
 
 - **Reasoning rows still repeated a rephrased preamble (2026-09-14, #2666)** — the fix below
   only trimmed sentences identical character for character to the _previous_ block. Models
